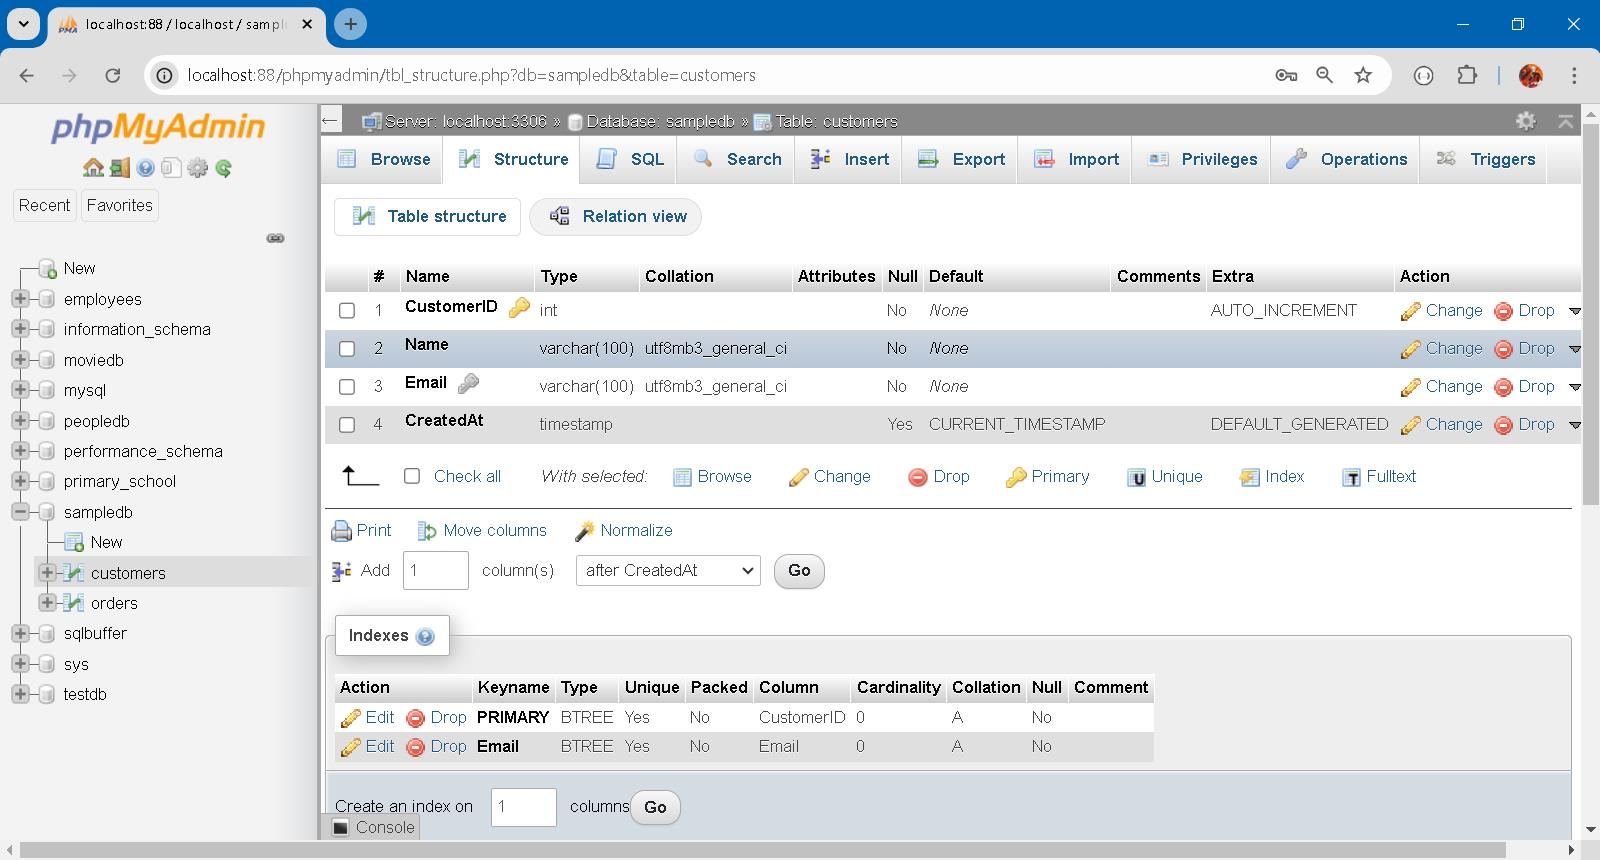
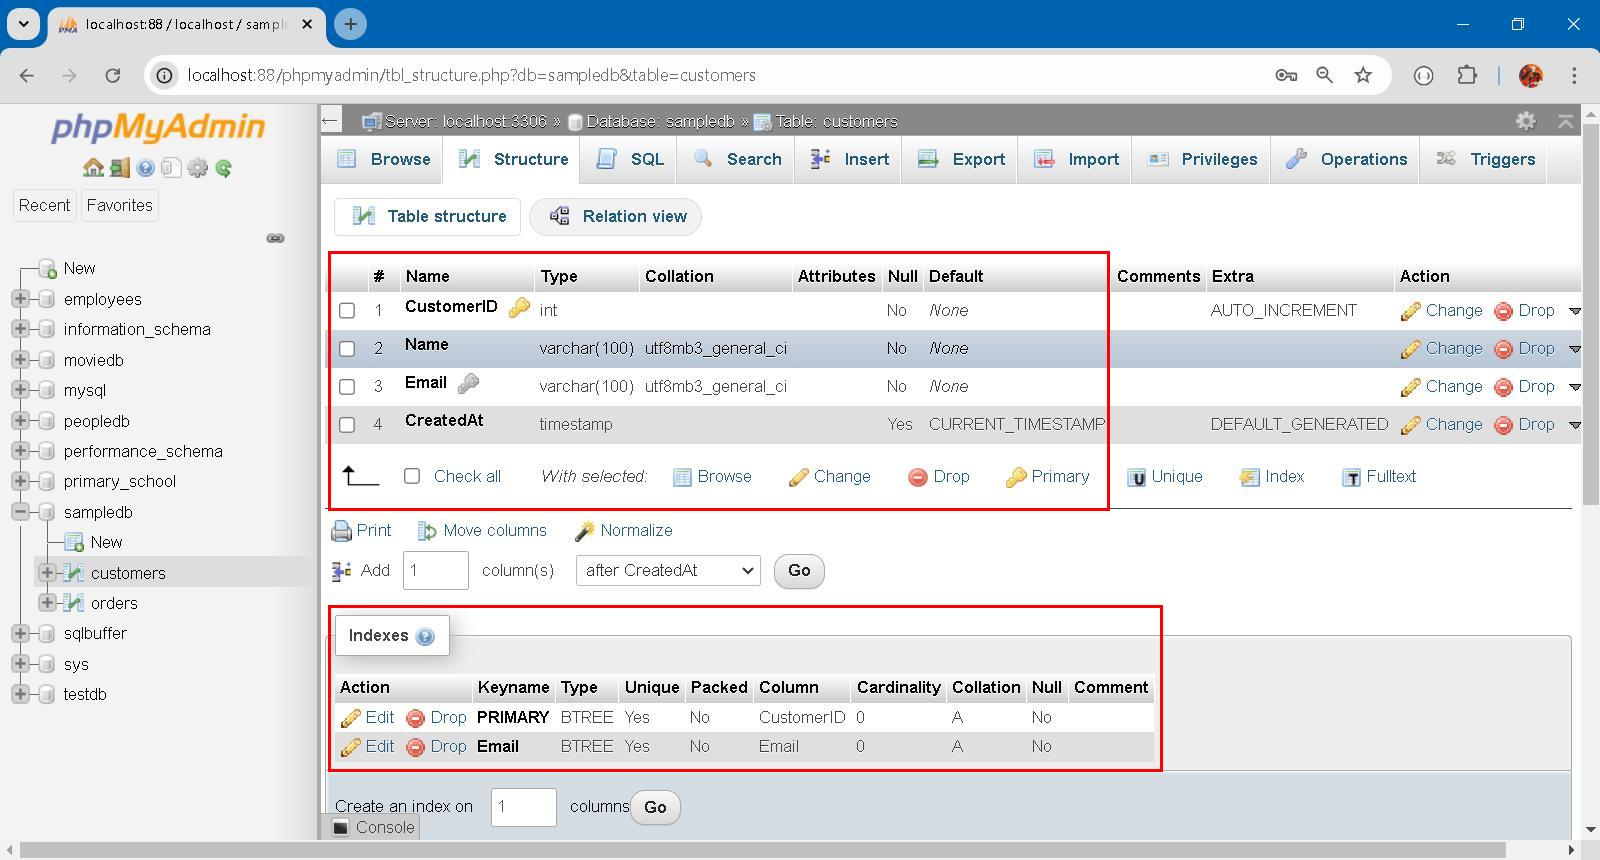
write more

diff --git a/article.md b/article.md
@@ -77,6 +77,13 @@ INSERT INTO Orders (CustomerID, Amount) VALUES
 (2, 300.00);
 ```
 
+![alt Customers Figure 1](img/Customers_1.JPG)
+
+On the upper part, you can see field type, size and encoding; on the lower part, you can see two [BTREE](https://en.wikipedia.org/wiki/B-tree) indexes, one for primary key access and the other for uniqueness email checking. Technically speaking, you can create table without index and is completely valid. Typical log, history and file for archiving purpose are supposed to be processed sequentially and thus no need index for random access on their own. In addition, indexes occupy disk space and CPU time to maintain. As Data size grow, indexes also grow... 
+
+![alt Customers Figure 2](img/Customers_2.JPG)
+
+
 #### Section 3 
 
 Access Model includes all static and dynamic overhead on disk or memory in order to enable certain kind of access method on storage model, ie. user data. This covers index, view, temporary file etc. 
